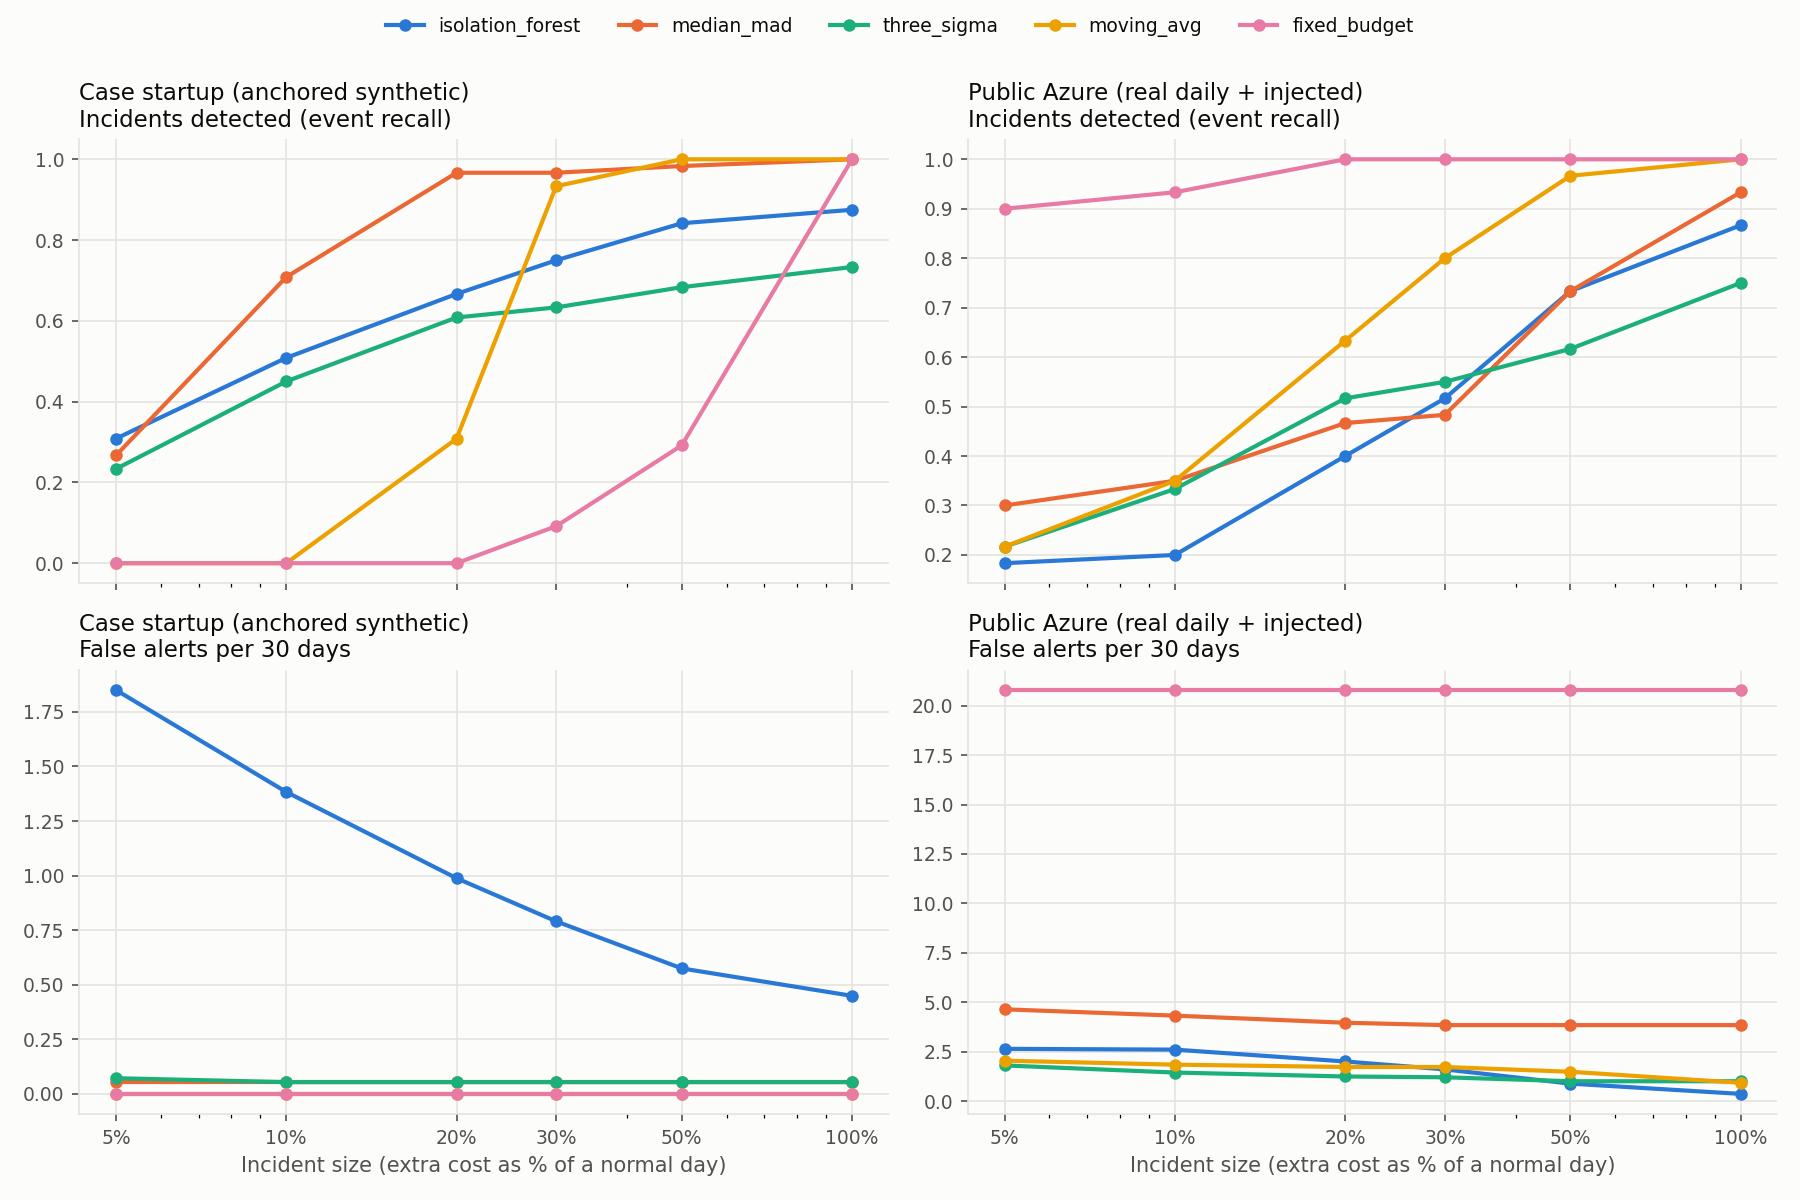
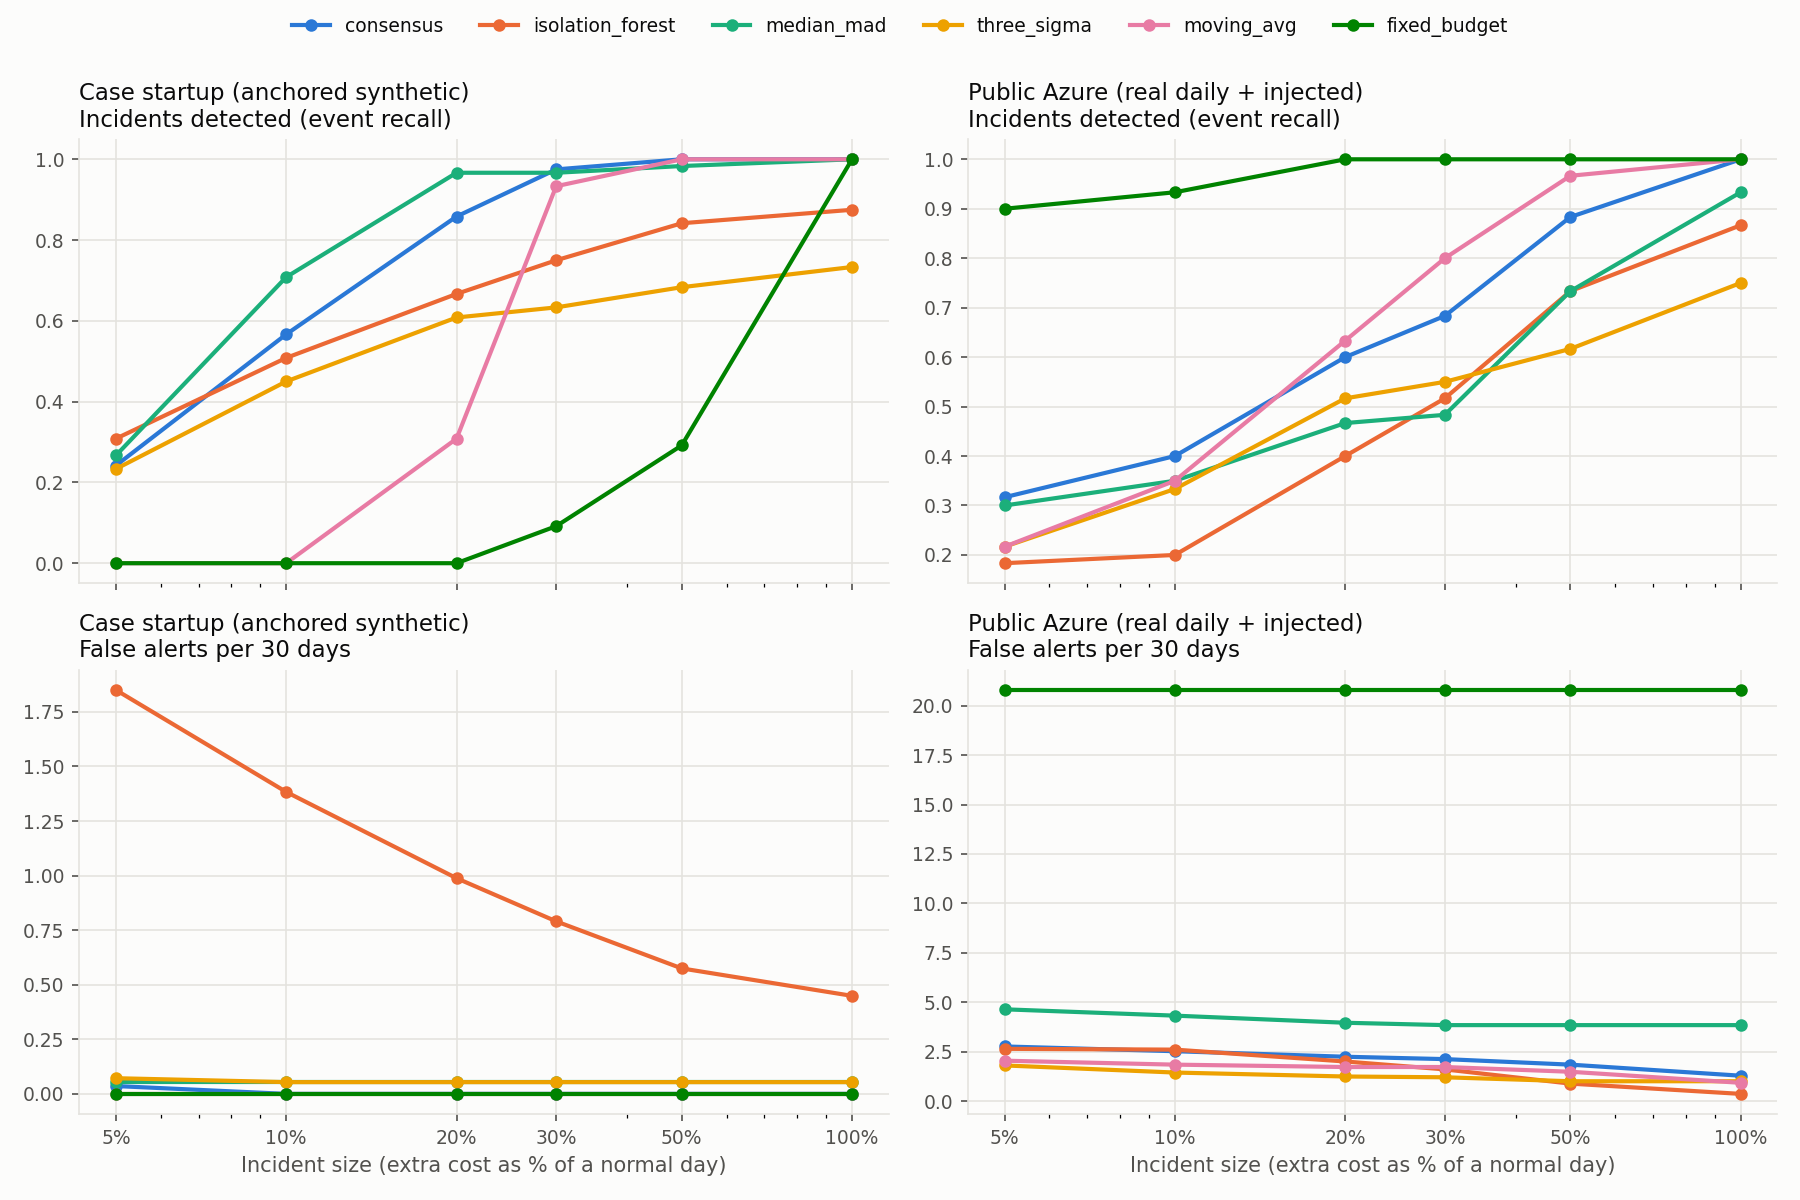
Use a single consensus detector in the DSS
The dashboard no longer offers a detector choice. It runs the consensus
detector (anomalous when >= 2 of Isolation Forest, median+MAD, moving-average
band and 3-sigma agree), which had the best F1 averaged over both evaluation
datasets. Other detectors remain only as comparisons on the Evaluation page;
the report gains a detector-selection table.

diff --git a/app.py b/app.py
@@ -24,7 +24,7 @@ import streamlit as st
 ROOT = Path(__file__).resolve().parent
 sys.path.append(str(ROOT / "scripts"))
 from attribution import explain_day, shap_contributions  # noqa: E402
-from detector import baseline_flags, detect  # noqa: E402
+from detector import CONSENSUS_MEMBERS, all_flags  # noqa: E402
 
 CLEAN = ROOT / "Dataset" / "clean"
 EVAL = ROOT / "results" / "evaluation"
@@ -40,14 +40,12 @@ DATASETS = {
         "short": "Public Azure subscription", "key": "kaggle",
         "note": "Real daily Azure billing (Kaggle, c.carrucciu 2023). Amounts in the billing currency."},
 }
-DETECTORS = {
-    "Median + MAD": "median_mad",
-    "Moving-average band": "moving_avg",
-    "Isolation Forest": "isolation_forest",
-    "3-sigma rule": "three_sigma",
-    "Fixed budget": "fixed_budget",
-}
-DETECTOR_NAMES = {v: k for k, v in DETECTORS.items()}
+# The DSS runs one detector, chosen by the evaluation: the consensus of four detectors
+# (anomalous when >= 2 agree). The others appear only on the Evaluation page.
+DET = "consensus"
+DETECTOR_NAMES = {"consensus": "Consensus (final)", "median_mad": "Median + MAD",
+                  "moving_avg": "Moving-average band", "isolation_forest": "Isolation Forest",
+                  "three_sigma": "3-sigma rule", "fixed_budget": "Fixed budget"}
 METHOD_NAMES = {"cost_delta": "Cost change vs normal", "robust_z": "Relative change (robust z)",
                 "shap_if": "SHAP on Isolation Forest", "largest_cost": "Largest cost that day"}
 ACTIONS = {
@@ -103,6 +101,9 @@ section[data-testid="stSidebar"] div[role="radiogroup"] > label > div:first-chil
 section[data-testid="stSidebar"] div[role="radiogroup"] > label:has(input:checked) { background: var(--accent-soft); }
 section[data-testid="stSidebar"] div[role="radiogroup"] > label:has(input:checked) p { color: var(--accent); font-weight: 600; }
 section[data-testid="stSidebar"] div[role="radiogroup"] p { font-size: 0.92rem; color: #2b2e36; }
+.modelbox { font-size:0.8rem; color:var(--ink2); line-height:1.5; background:#f6f7f9; border:1px solid var(--line);
+  border-radius:10px; padding:10px 12px; margin-bottom: 12px; }
+.modelbox b { color:var(--ink); font-weight:600; }
 .sidefoot { font-size:0.74rem; color:var(--ink3); line-height:1.45; margin-top: 22px; padding-top: 14px; border-top:1px solid var(--line); }
 
 /* Page header */
@@ -192,15 +193,11 @@ def load(path: str) -> pd.DataFrame:
 @st.cache_data
 def analyse(W: pd.DataFrame) -> pd.DataFrame:
     total = W.sum(axis=1)
-    flags = baseline_flags(total)
-    iso = detect(pd.DataFrame({"date": W.index, "total_cost_usd": total.values}))
-    flags.insert(0, "isolation_forest", iso["predicted"].values)
-    flags.index = W.index
+    flags = all_flags(total)
     normal = total.shift(1).rolling(7, min_periods=3).median()
     out = pd.DataFrame({"total": total, "normal": normal}).join(flags)
     out["extra"] = (out["total"] - out["normal"]).clip(lower=0).fillna(0)
     out["pct"] = (out["extra"] / out["normal"]).fillna(0)
-    out["agree"] = out[list(DETECTORS.values())].sum(axis=1)
     return out
 
 
@@ -298,11 +295,11 @@ page = st.sidebar.radio("Navigation", [f"{icon}  {name}" for name, icon in PAGES
 
 html('<div class="navlabel">Data source</div>', st.sidebar)
 ds_name = st.sidebar.selectbox("Dataset", list(DATASETS) + ["Upload a CSV"], label_visibility="collapsed")
-html('<div class="navlabel">Detection method</div>', st.sidebar)
-det_label = st.sidebar.selectbox("Detection method", list(DETECTORS), label_visibility="collapsed",
-                                 help="Median + MAD was the most reliable on the case data; the moving-average "
-                                      "band on the real public data.")
-det = DETECTORS[det_label]
+html('<div class="navlabel">Detection model</div><div class="modelbox"><b>Consensus detector</b><br>'
+     'A day is flagged when at least 2 of 4 detectors agree: Isolation Forest, median + MAD, '
+     'moving-average band and 3-sigma. Chosen for the best F1 across both evaluation datasets.</div>',
+     st.sidebar)
+det, det_label = DET, "Consensus detector"
 with st.sidebar.expander("Alert channel"):
     platform = st.selectbox("Platform", ["Slack", "Microsoft Teams"])
     webhook = st.text_input("Incoming webhook URL", type="password", placeholder="https://hooks...")
@@ -394,7 +391,7 @@ if page == "Overview":
                 "Cost": flagged["total"].values, "Normal": flagged["normal"].values,
                 "Extra cost": flagged["extra"].values, "Increase": (flagged["pct"] * 100).values,
                 "Main driver": [top_driver(W, d) for d in flagged.index],
-                "Methods agreeing": flagged["agree"].values,
+                "Detectors agreeing": flagged["votes"].values,
             }).iloc[::-1]
             st.dataframe(tbl, hide_index=True, width="stretch", column_config={
                 "Date": st.column_config.DateColumn(format="D MMM YYYY"),
@@ -403,7 +400,7 @@ if page == "Overview":
                 "Extra cost": st.column_config.NumberColumn(format=num_fmt),
                 "Increase": st.column_config.ProgressColumn(format="%.0f%%", min_value=0,
                                                             max_value=float(max(100, tbl["Increase"].max()))),
-                "Methods agreeing": st.column_config.ProgressColumn(format="%d of 5", min_value=0, max_value=5),
+                "Detectors agreeing": st.column_config.ProgressColumn(format="%d of 4", min_value=0, max_value=4),
             })
 
 # --------------------------------------------------------------------------- #
@@ -423,7 +420,7 @@ elif page == "Investigate":
     top = drivers[drivers["increase"] > 0].head(3)
 
     html(f'<div class="banner"><div>{pill(r["pct"])}<div class="b-title">Cost anomaly on {day:%A, %d %B %Y}</div>'
-         f'<div class="csub">Flagged by {int(r["agree"])} of 5 detection methods</div></div>'
+         f'<div class="csub">Flagged by {int(r["votes"])} of 4 detectors</div></div>'
          f'<div class="stats"><div><div class="stat-l">Cost that day</div><div class="stat-v">{money(r["total"])}</div></div>'
          f'<div><div class="stat-l">Normal</div><div class="stat-v">{money(r["normal"])}</div></div>'
          f'<div><div class="stat-l">Extra cost</div><div class="stat-v">+{money(r["extra"])}</div></div>'
@@ -521,9 +518,9 @@ elif page == "Evaluation":
         kpi(k2, "target", "#1f8a4c", "Driver named correctly", f"{(res['Driver correct'] == 'Yes').sum()} of {len(res)}",
             "First-ranked service")
         if dsum is not None:
-            best = dsum[(dsum.dataset == "kaggle") & (dsum.k == 0.3)].sort_values("f1").iloc[-1]
-            kpi(k3, "insights", "#7b5cd6", "Best detector on real data", DETECTOR_NAMES[best["detector"]],
-                f"F1 {best['f1']:.2f} · {best['event_recall']:.0%} of +30% incidents caught", small=True)
+            both = dsum.groupby("detector")["f1"].mean()
+            kpi(k3, "insights", "#7b5cd6", "Detection model in use", "Consensus (2 of 4)",
+                f"F1 {both['consensus']:.2f} averaged over both datasets, best of 6", small=True)
         if asum is not None:
             pooled = asum[asum.dataset == "kaggle"].groupby("method")["top1"].mean()
             kpi(k4, "psychology", "#c9591c", "Best explanation method", METHOD_NAMES[pooled.idxmax()],
@@ -538,7 +535,8 @@ elif page == "Evaluation":
 
     if dsum is not None:
         with st.container(key="card_detectors"):
-            card_head("Detection methods compared", "Incidents 30% above a normal day, ranked by F1")
+            card_head("Detection models compared", "Why the consensus detector is used. Incidents 30% above a "
+                      "normal day, ranked by F1")
             cols = st.columns(2, gap="medium")
             for col, (ds, label) in zip(cols, [("startup", "Case startup"), ("kaggle", "Public Azure (real daily)")]):
                 t = dsum[(dsum.dataset == ds) & (dsum.k == 0.3)].sort_values("f1", ascending=False)
@@ -613,10 +611,9 @@ else:
             cols = st.columns(2, gap="medium")
         rr = Ak.loc[d]
         ex = explain_day(Wk, d, 3)
-        by = [DETECTOR_NAMES[k] for k in DETECTORS.values() if rr[k] == 1]
         with cols[i % 2].container(key=f"card_case_k{i}"):
             card_head(f"{d:%d %B %Y}", f"Cost {rr['total']:,.2f} vs normal {rr['normal']:,.2f} "
-                      f"· flagged by {len(by)} of 5 methods",
+                      f"· {'flagged' if rr[DET] else 'not flagged'} ({int(rr['votes'])} of 4 detectors)",
                       pill(rr["pct"]).replace("</span>", f" · {rr['pct']:+.0%}</span>"))
             html(bars_html(ex["increase"].clip(lower=0)))
         if i % 2 == 1:

diff --git a/scripts/evaluate.py b/scripts/evaluate.py
@@ -38,14 +38,15 @@ ROOT = Path(__file__).resolve().parent.parent
 sys.path.append(str(ROOT / "scripts"))
 import augment_dataset as aug  # noqa: E402
 from attribution import METHODS, explain_day, rank_drivers  # noqa: E402
-from detector import baseline_flags, detect  # noqa: E402
+from detector import all_flags  # noqa: E402
 
 CLEAN = ROOT / "Dataset" / "clean"
 OUT = ROOT / "results" / "evaluation"
 K_LEVELS = [0.05, 0.1, 0.2, 0.3, 0.5, 1.0]
 SEEDS = range(10)
 WARMUP = 14
-DETECTORS = ["isolation_forest", "median_mad", "three_sigma", "moving_avg", "fixed_budget"]
+# consensus = final DSS detector (>= 2 of median_mad, moving_avg, three_sigma, isolation_forest)
+DETECTORS = ["consensus", "isolation_forest", "median_mad", "three_sigma", "moving_avg", "fixed_budget"]
 
 KAGGLE_INCIDENTS = [
     ("vm_left_running",     ["Virtual Machines"],                          (1, 3)),
@@ -56,8 +57,8 @@ KAGGLE_INCIDENTS = [
     ("analytics_rollout",   ["Azure Synapse Analytics", "Log Analytics"],  (1, 2)),
 ]
 
-# Reference palette, categorical slots 1-5 in fixed order (dataviz skill).
-PALETTE = ["#2a78d6", "#eb6834", "#1baf7a", "#eda100", "#e87ba4"]
+# Reference palette, categorical slots 1-6 in fixed order (dataviz skill).
+PALETTE = ["#2a78d6", "#eb6834", "#1baf7a", "#eda100", "#e87ba4", "#008300"]
 INK, INK2, GRID, SURFACE = "#0b0b0b", "#52514e", "#e4e3df", "#fcfcfb"
 
 
@@ -93,12 +94,7 @@ def make_run(dataset: str, k: float, seed: int, startup_levels, kaggle_clean):
 # Detection
 # --------------------------------------------------------------------------- #
 def detection_flags(W: pd.DataFrame) -> pd.DataFrame:
-    totals = W.sum(axis=1)
-    flags = baseline_flags(totals, WARMUP)
-    iso = detect(pd.DataFrame({"date": W.index, "total_cost_usd": totals.values}))
-    flags.insert(0, "isolation_forest", iso["predicted"].values)
-    flags.index = W.index
-    return flags
+    return all_flags(W.sum(axis=1))
 
 
 def score_detection(flags, labels, extra, truth) -> list[dict]:
@@ -223,7 +219,7 @@ def fig_detection(summary: pd.DataFrame) -> None:
             ax.set_xticks([5, 10, 20, 30, 50, 100], ["5%", "10%", "20%", "30%", "50%", "100%"])
             if row == 1:
                 ax.set_xlabel("Incident size (extra cost as % of a normal day)", color=INK2)
-    fig.legend(*axes[0, 0].get_legend_handles_labels(), loc="upper center", ncol=5,
+    fig.legend(*axes[0, 0].get_legend_handles_labels(), loc="upper center", ncol=6,
                frameon=False, fontsize=9, labelcolor=INK)
     fig.tight_layout(rect=(0, 0, 1, 0.95))
     fig.savefig(OUT / "fig_detection_vs_size.png", dpi=150, facecolor=SURFACE)
@@ -292,6 +288,12 @@ def main() -> None:
     rep = ["# Evaluation report\n",
            f"Runs: 2 datasets x {len(K_LEVELS)} incident sizes x {len(SEEDS)} seeds. "
            f"Evaluation excludes the first {WARMUP} warm-up days.\n"]
+    sel = dsum.groupby(["detector", "dataset"])["f1"].mean().unstack()[["startup", "kaggle"]]
+    sel["both"] = sel.mean(axis=1)
+    sel = sel.sort_values("both", ascending=False).reset_index()
+    rep.append("\n## Detector selection (F1 averaged over all incident sizes)\n")
+    rep.append("The DSS uses the detector with the best F1 across both datasets.\n")
+    rep.append(md_table(sel, {"startup": "{:.2f}", "kaggle": "{:.2f}", "both": "{:.2f}"}))
     for ds in ["startup", "kaggle"]:
         rep.append(f"\n## Detection - {ds} (incident size 30% of a normal day)\n")
         if ds == "kaggle":

diff --git a/scripts/detector.py b/scripts/detector.py
@@ -66,3 +66,21 @@ def detect(df: pd.DataFrame, contamination: float = 0.09) -> pd.DataFrame:
     df["anomaly_score"] = -model.score_samples(X)   # higher = more anomalous
     df["predicted"] = (model.predict(X) == -1).astype(int)
     return df
+
+
+# Final detector used by the DSS, chosen by the evaluation (best F1 averaged over both
+# datasets): a day is anomalous when at least 2 of these 4 detectors agree. Fixed budget
+# is excluded (it floods alerts when spend grows).
+CONSENSUS_MEMBERS = ["median_mad", "moving_avg", "three_sigma", "isolation_forest"]
+CONSENSUS_MIN_VOTES = 2
+
+
+def all_flags(totals: pd.Series) -> pd.DataFrame:
+    """Every detector's 0/1 flag for a daily-total series, plus the `consensus` detector."""
+    flags = baseline_flags(totals)
+    iso = detect(pd.DataFrame({"date": totals.index, "total_cost_usd": totals.values}))
+    flags.insert(0, "isolation_forest", iso["predicted"].values)
+    flags.index = totals.index
+    flags["votes"] = flags[CONSENSUS_MEMBERS].sum(axis=1)
+    flags.insert(0, "consensus", (flags["votes"] >= CONSENSUS_MIN_VOTES).astype(int))
+    return flags

diff --git a/results/evaluation/REPORT.md b/results/evaluation/REPORT.md
@@ -3,10 +3,24 @@
 Runs: 2 datasets x 6 incident sizes x 10 seeds. Evaluation excludes the first 14 warm-up days.
 
 
+## Detector selection (F1 averaged over all incident sizes)
+
+The DSS uses the detector with the best F1 across both datasets.
+
+| detector | startup | kaggle | both |
+|---|---|---|---|
+| consensus | 0.80 | 0.52 | 0.66 |
+| median_mad | 0.84 | 0.37 | 0.60 |
+| moving_avg | 0.54 | 0.56 | 0.55 |
+| isolation_forest | 0.63 | 0.43 | 0.53 |
+| three_sigma | 0.59 | 0.42 | 0.51 |
+| fixed_budget | 0.26 | 0.26 | 0.26 |
+
 ## Detection - startup (incident size 30% of a normal day)
 
 | detector | precision | recall_days | f1 | event_recall | false_alerts_per_30d | mean_delay_days | cost_exposed_pct |
 |---|---|---|---|---|---|---|---|
+| consensus | 1.00 | 0.96 | 0.98 | 98% | 0.0 | 0.00 | 2% |
 | fixed_budget | 0.80 | 0.08 | 0.14 | 9% | 0.0 | 0.06 | 87% |
 | isolation_forest | 0.74 | 0.70 | 0.72 | 75% | 0.8 | 0.07 | 23% |
 | median_mad | 0.98 | 0.96 | 0.97 | 97% | 0.1 | 0.00 | 4% |
@@ -17,6 +31,7 @@ Runs: 2 datasets x 6 incident sizes x 10 seeds. Evaluation excludes the first 14
 
 | detector | 5% | 10% | 20% | 30% | 50% | 100% |
 |---|---|---|---|---|---|---|
+| consensus | 24% | 57% | 86% | 98% | 100% | 100% |
 | fixed_budget | 0% | 0% | 0% | 9% | 29% | 100% |
 | isolation_forest | 31% | 51% | 67% | 75% | 84% | 88% |
 | median_mad | 27% | 71% | 97% | 97% | 98% | 100% |
@@ -56,6 +71,7 @@ The real background already contains unlabelled real spikes (see the real-cases 
 
 | detector | precision | recall_days | f1 | event_recall | false_alerts_per_30d | mean_delay_days | cost_exposed_pct |
 |---|---|---|---|---|---|---|---|
+| consensus | 0.52 | 0.61 | 0.56 | 68% | 2.1 | 0.02 | 33% |
 | fixed_budget | 0.15 | 1.00 | 0.27 | 100% | 20.8 | 0.00 | 0% |
 | isolation_forest | 0.50 | 0.43 | 0.46 | 52% | 1.6 | 0.10 | 46% |
 | median_mad | 0.30 | 0.43 | 0.35 | 48% | 3.8 | 0.00 | 54% |
@@ -66,6 +82,7 @@ The real background already contains unlabelled real spikes (see the real-cases 
 
 | detector | 5% | 10% | 20% | 30% | 50% | 100% |
 |---|---|---|---|---|---|---|
+| consensus | 32% | 40% | 60% | 68% | 88% | 100% |
 | fixed_budget | 90% | 93% | 100% | 100% | 100% | 100% |
 | isolation_forest | 18% | 20% | 40% | 52% | 73% | 87% |
 | median_mad | 30% | 35% | 47% | 48% | 73% | 93% |
@@ -107,11 +124,11 @@ Driver ranking = cost_delta (increase vs each service's trailing 7-day median).
 
 | Date | Cost | Normal | Increase | Flagged by | Top drivers (increase) |
 |---|---|---|---|---|---|
-| 2023-02-01 | 164.49 | 133.68 | +30.81 (23%) | isolation_forest, three_sigma, moving_avg, fixed_budget | Azure Firewall +12.52; Virtual Machines +7.86; Azure Database for MariaDB +3.73 |
-| 2023-02-03 | 169.61 | 136.01 | +33.60 (25%) | isolation_forest, moving_avg, fixed_budget | Azure Synapse Analytics +54.95; Azure Database for MariaDB +2.67; Log Analytics +2.62 |
-| 2023-03-15 | 130.16 | 96.17 | +34.00 (35%) | isolation_forest, median_mad, three_sigma, moving_avg, fixed_budget | Virtual Machines +15.22; SQL Database +15.17; Storage +4.16 |
-| 2023-03-17 | 138.57 | 97.78 | +40.78 (42%) | median_mad, moving_avg, fixed_budget | Virtual Machines +28.25; Log Analytics +6.32; Storage +3.60 |
-| 2023-03-18 | 147.01 | 111.39 | +35.62 (32%) | isolation_forest, median_mad, moving_avg, fixed_budget | Virtual Machines +36.92; Azure Defender +4.83; Log Analytics +3.38 |
+| 2023-02-01 | 164.49 | 133.68 | +30.81 (23%) | consensus, isolation_forest, three_sigma, moving_avg, fixed_budget | Azure Firewall +12.52; Virtual Machines +7.86; Azure Database for MariaDB +3.73 |
+| 2023-02-03 | 169.61 | 136.01 | +33.60 (25%) | consensus, isolation_forest, moving_avg, fixed_budget | Azure Synapse Analytics +54.95; Azure Database for MariaDB +2.67; Log Analytics +2.62 |
+| 2023-03-15 | 130.16 | 96.17 | +34.00 (35%) | consensus, isolation_forest, median_mad, three_sigma, moving_avg, fixed_budget | Virtual Machines +15.22; SQL Database +15.17; Storage +4.16 |
+| 2023-03-17 | 138.57 | 97.78 | +40.78 (42%) | consensus, median_mad, moving_avg, fixed_budget | Virtual Machines +28.25; Log Analytics +6.32; Storage +3.60 |
+| 2023-03-18 | 147.01 | 111.39 | +35.62 (32%) | consensus, isolation_forest, median_mad, moving_avg, fixed_budget | Virtual Machines +36.92; Azure Defender +4.83; Log Analytics +3.38 |
 
 ## Case organisation (Sri Lankan startup) - 28 June 2026 vs 1 June 2026
 

diff --git a/results/evaluation/real_cases.md b/results/evaluation/real_cases.md
@@ -6,11 +6,11 @@ Driver ranking = cost_delta (increase vs each service's trailing 7-day median).
 
 | Date | Cost | Normal | Increase | Flagged by | Top drivers (increase) |
 |---|---|---|---|---|---|
-| 2023-02-01 | 164.49 | 133.68 | +30.81 (23%) | isolation_forest, three_sigma, moving_avg, fixed_budget | Azure Firewall +12.52; Virtual Machines +7.86; Azure Database for MariaDB +3.73 |
-| 2023-02-03 | 169.61 | 136.01 | +33.60 (25%) | isolation_forest, moving_avg, fixed_budget | Azure Synapse Analytics +54.95; Azure Database for MariaDB +2.67; Log Analytics +2.62 |
-| 2023-03-15 | 130.16 | 96.17 | +34.00 (35%) | isolation_forest, median_mad, three_sigma, moving_avg, fixed_budget | Virtual Machines +15.22; SQL Database +15.17; Storage +4.16 |
-| 2023-03-17 | 138.57 | 97.78 | +40.78 (42%) | median_mad, moving_avg, fixed_budget | Virtual Machines +28.25; Log Analytics +6.32; Storage +3.60 |
-| 2023-03-18 | 147.01 | 111.39 | +35.62 (32%) | isolation_forest, median_mad, moving_avg, fixed_budget | Virtual Machines +36.92; Azure Defender +4.83; Log Analytics +3.38 |
+| 2023-02-01 | 164.49 | 133.68 | +30.81 (23%) | consensus, isolation_forest, three_sigma, moving_avg, fixed_budget | Azure Firewall +12.52; Virtual Machines +7.86; Azure Database for MariaDB +3.73 |
+| 2023-02-03 | 169.61 | 136.01 | +33.60 (25%) | consensus, isolation_forest, moving_avg, fixed_budget | Azure Synapse Analytics +54.95; Azure Database for MariaDB +2.67; Log Analytics +2.62 |
+| 2023-03-15 | 130.16 | 96.17 | +34.00 (35%) | consensus, isolation_forest, median_mad, three_sigma, moving_avg, fixed_budget | Virtual Machines +15.22; SQL Database +15.17; Storage +4.16 |
+| 2023-03-17 | 138.57 | 97.78 | +40.78 (42%) | consensus, median_mad, moving_avg, fixed_budget | Virtual Machines +28.25; Log Analytics +6.32; Storage +3.60 |
+| 2023-03-18 | 147.01 | 111.39 | +35.62 (32%) | consensus, isolation_forest, median_mad, moving_avg, fixed_budget | Virtual Machines +36.92; Azure Defender +4.83; Log Analytics +3.38 |
 
 ## Case organisation (Sri Lankan startup) - 28 June 2026 vs 1 June 2026
 
